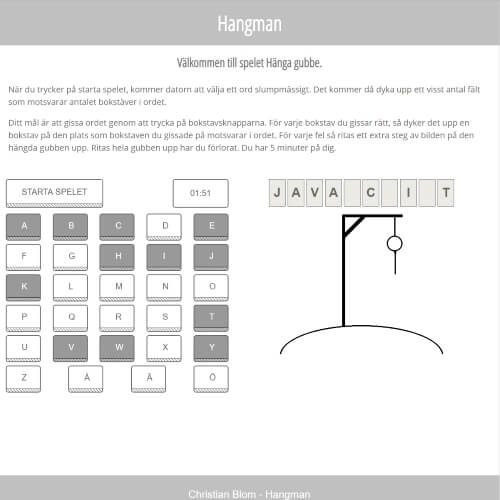
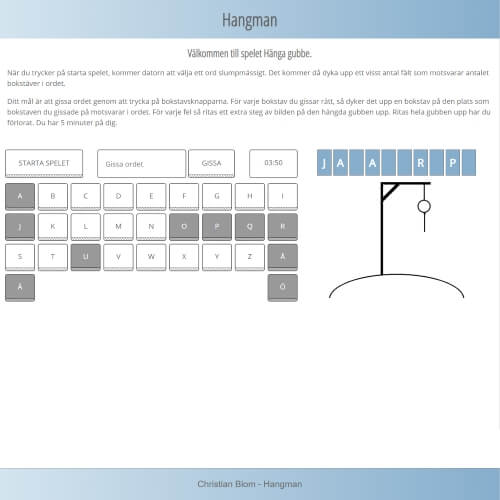
Updated github repo links, project links and hangman thumb.

diff --git a/index.html b/index.html
@@ -19,18 +19,18 @@
         <article class="project">
             <h2>Café Koppen</h2>
             <p>Static website project done as part of my Full Stack Developer training.</p>
-            <a href="http://u01.christianblom.se/" aria-label="Visit the website for my project Café Koppen"><img src="images/cafekoppenthumb.jpg" alt="Café Koppen home"></a>
+            <a href="https://u01.christianblom.se/" aria-label="Visit the website for my project Café Koppen"><img src="images/cafekoppenthumb.jpg" alt="Café Koppen home"></a>
             <div class="footnote">
-                <p>Finished: Oct 14 2018.</p><a href="https://github.com/ChristianBlom84/01-static-website-ChristianBlom84" aria-label="Visit the Github repository for the project Café Koppen">Github repo</a>
+                <p>Finished: Oct 14 2018.</p><a href="https://github.com/ChristianBlom84/project-1-static-website" aria-label="Visit the Github repository for the project Café Koppen">Github repo</a>
             </div>
         </article>
 
         <article class="project">
             <h2>Hangman</h2>
             <p>Javascript version of the "Hangman" game done as part of my Full Stack Developer training.</p>
-            <a href="http://u02.christianblom.se/" aria-label="Visit the website for my project Hangman"><img src="images/hangmanthumb.jpg" alt="Hangman home"></a>
+            <a href="https://u02.christianblom.se/" aria-label="Visit the website for my project Hangman"><img src="images/hangmanthumb.jpg" alt="Hangman home"></a>
             <div class="footnote">
-                <p>Finished: Nov 06 2018.</p><a href="https://github.com/chas-academy/02-hangman-ChristianBlom84" aria-label="Visit the Github repository for the project Hangman">Github repo</a>
+                <p>Finished: Nov 11 2018.</p><a href="https://github.com/ChristianBlom84/project-2-hangman-game" aria-label="Visit the Github repository for the project Hangman">Github repo</a>
             </div>
         </article>
 
